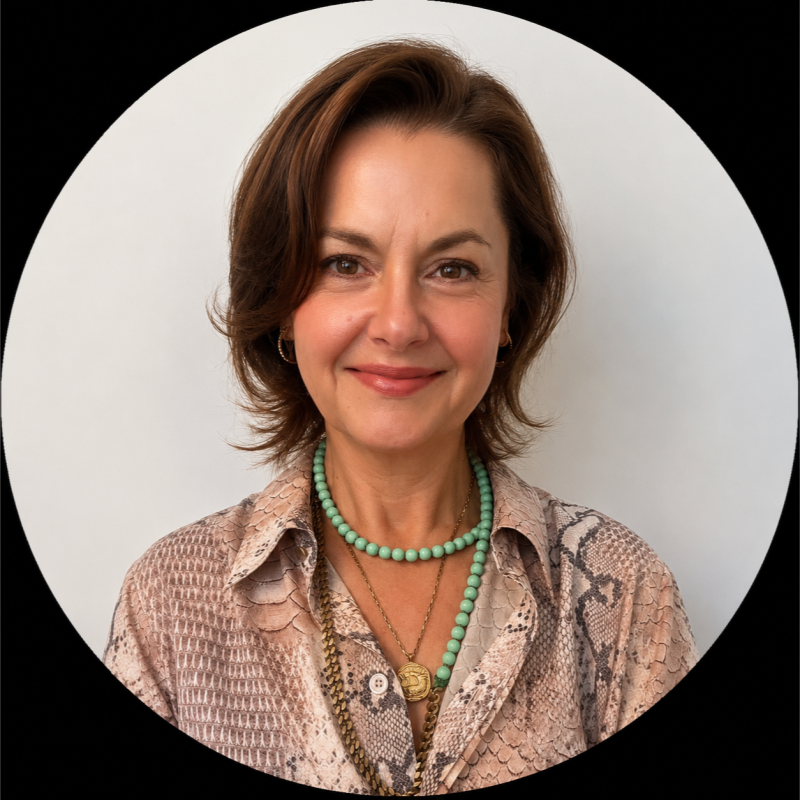
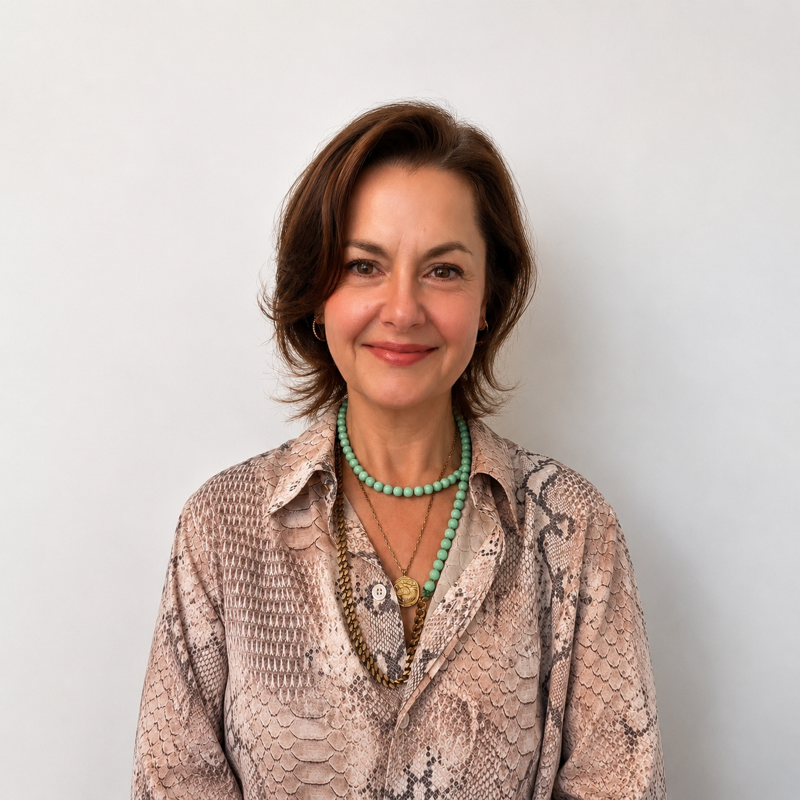
Add files via upload

diff --git a/README.md b/README.md
@@ -1,15 +1,13 @@
-# Alison Whittaker Portfolio
+# GitHub Profile Assets
 
-Deploy-ready GitHub Pages site for `https://alison-whittaker.github.io/`.
+Use these files for Alison Whittaker's GitHub profile and GitHub Pages site.
 
-## Publish
+## Files
 
-Upload every file in this folder directly to the root of the `alison-whittaker.github.io` repository:
+- `github-avatar-white-bg.jpg` - Recommended for uploading as the GitHub account profile photo. JPEG avoids transparency artifacts that can appear as black around circular masks.
+- `alison-whittaker-profile.png` - Recommended for the GitHub Pages repository/site image asset. It is square and ready for CSS circular cropping.
 
-- `index.html`
-- `styles.css`
-- `script.js`
-- `alison-whittaker-profile.png`
-- `Alison-Whittaker-Resume-2026.pdf`
+## Upload Targets
 
-Do not upload the enclosing folder. All site assets intentionally live at the repository root.
+- GitHub profile avatar: GitHub profile settings > Change avatar > upload `github-avatar-white-bg.jpg`
+- GitHub Pages site: replace the site image asset with `alison-whittaker-profile.png`
